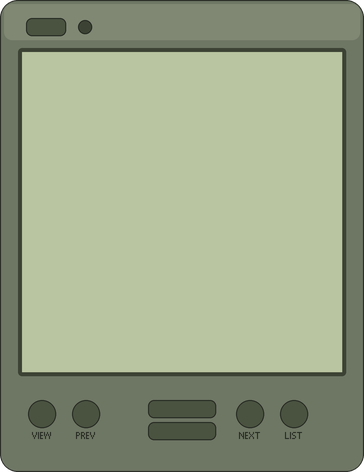
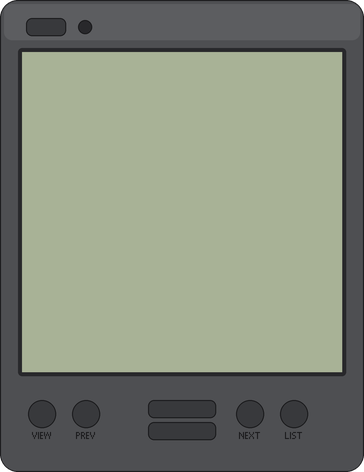
Palm III colours: a graphite case, only the LCD is green

diff --git a/tools/build_organiser_art.py b/tools/build_organiser_art.py
@@ -45,13 +45,16 @@ ROCKER_GAP = 11
 POWER = (13, 9, 20, 9)
 LED = (39, 10, 7)            # x, y, diameter
 
-SHELL = (110, 118, 100, 255)
-SHELL_HI = (128, 136, 116, 255)
-EDGE = (38, 42, 34, 255)
-DEEP = (74, 82, 64, 255)
-WELL = (60, 67, 52, 255)
-GLASS_FILL = (185, 196, 160, 255)
-LED_ON = (216, 92, 76, 255)
+# The Palm III was graphite, not green: a dark neutral grey case with slightly
+# lighter grey keys, a near-black screen surround, and only the LCD itself in
+# that pale grey-green (owner, 2026-09-12).
+SHELL = (78, 79, 82, 255)
+SHELL_HI = (92, 93, 96, 255)
+EDGE = (26, 26, 28, 255)
+DEEP = (56, 57, 60, 255)
+WELL = (40, 40, 43, 255)
+GLASS_FILL = (168, 178, 150, 255)
+LED_ON = (214, 88, 72, 255)
 
 def draw_case(scale):
     s = scale * SS
